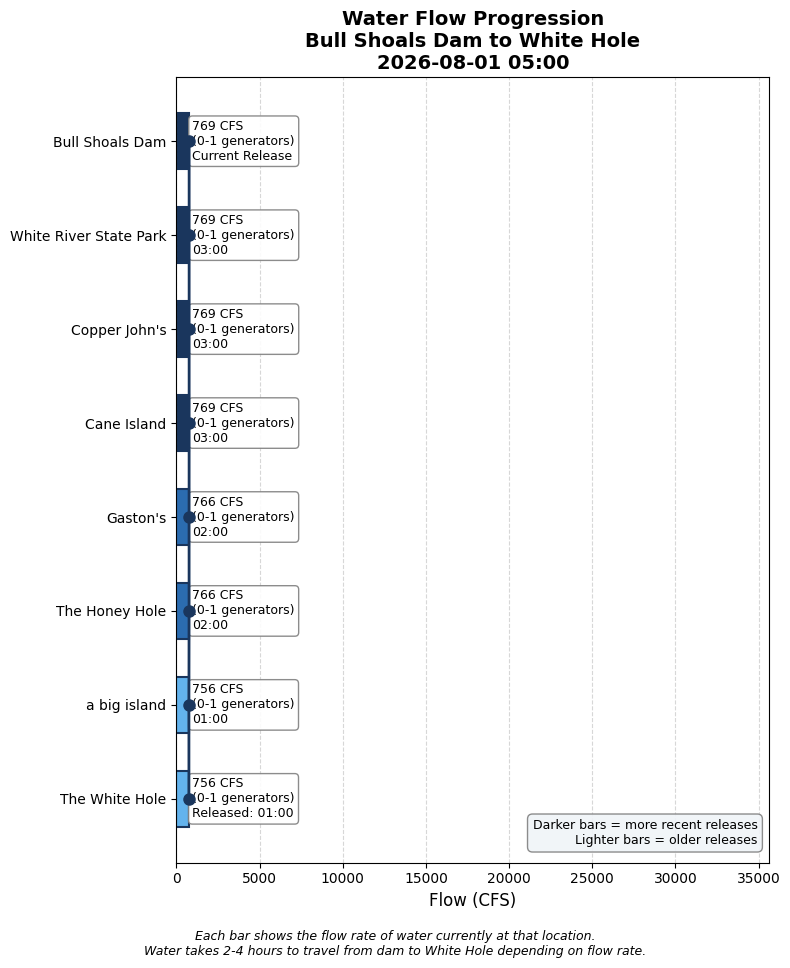
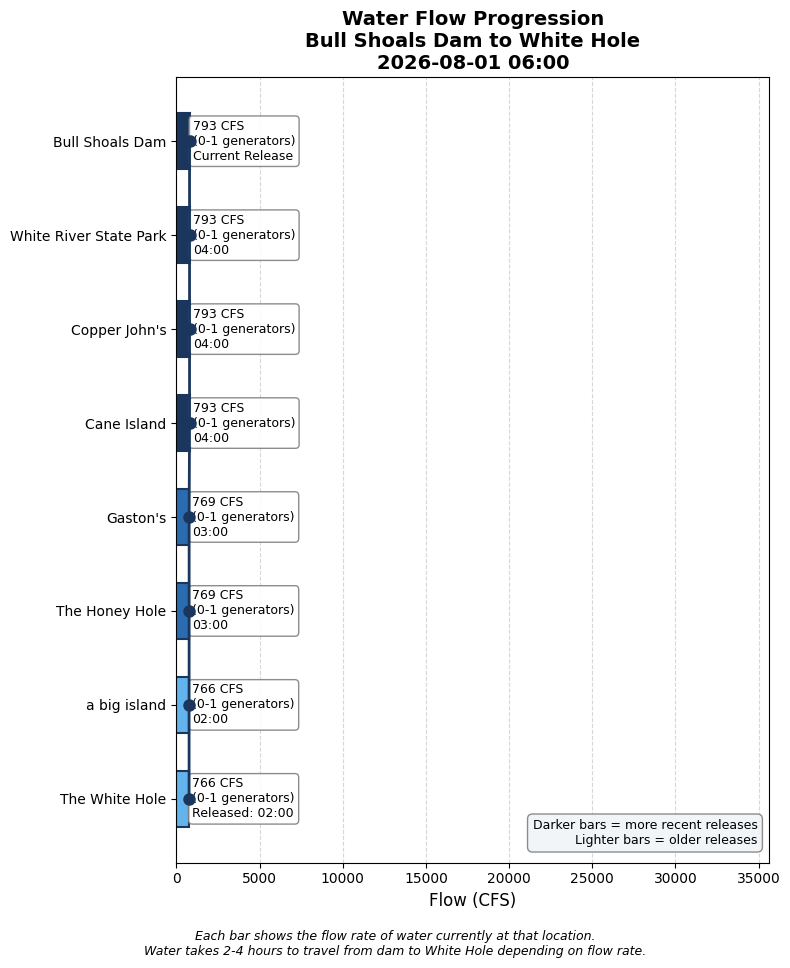
Update water conditions 2026-08-01 06:00

diff --git a/white_hole_conditions.html b/white_hole_conditions.html
@@ -3,7 +3,7 @@
 <head>
     <meta charset="UTF-8">
     <meta name="viewport" content="width=device-width, initial-scale=1.0">
-    <title>White Hole Conditions - 2026-08-01 05:00</title>
+    <title>White Hole Conditions - 2026-08-01 06:00</title>
     <style>
         body {
             font-family: -apple-system, BlinkMacSystemFont, 'Segoe UI', Roboto, sans-serif;
@@ -148,7 +148,7 @@
 </head>
 <body>
     <h1>White Hole Current Conditions</h1>
-    <p class="subtitle">Saturday, August 01, 2026 at 05:00 AM</p>
+    <p class="subtitle">Saturday, August 01, 2026 at 06:00 AM</p>
 
     <!-- HEADLINE BANNER -->
     <div class="headline-banner">
@@ -160,7 +160,7 @@
     <!-- CURRENT CONDITIONS -->
     <div class="current-conditions">
         <h3>Current Conditions at White Hole</h3>
-        <div class="flow-display">756 CFS</div>
+        <div class="flow-display">766 CFS</div>
         <div class="generator-display">Equivalent to 0-1 generators</div>
         <div class="condition-pills">
             <span class="pill wading">Excellent Wading</span>
@@ -189,6 +189,14 @@
                 <tr><td colspan="3" style="padding: 8px 10px; font-size: 0.8em; font-weight: bold; color: #6b46c1; text-transform: uppercase; letter-spacing: 0.05em; background-color: #f3e8ff;">Scheduled (SWPA forecast)</td></tr>
                 
                     <tr style="background-color: #faf5ff; ">
+                        <td style="padding: 10px; font-weight: bold;">9 AM</td>
+                        <td style="padding: 10px;">723 CFS<br><small style="color: #666;">(0-1 generators: 473 generation + 250 min flow)</small></td>
+                        <td style="padding: 10px;">~12:44 PM
+                            <span style="display: inline-block; margin-left: 6px; padding: 2px 8px; border-radius: 12px; font-size: 0.8em; background-color: #d1fae5; color: #065f46;">Excellent Wading</span>
+                        </td>
+                    </tr>
+                
+                    <tr style="background-color: #faf5ff; ">
                         <td style="padding: 10px; font-weight: bold;">8 AM</td>
                         <td style="padding: 10px;">723 CFS<br><small style="color: #666;">(0-1 generators: 473 generation + 250 min flow)</small></td>
                         <td style="padding: 10px;">~11:44 AM
@@ -212,39 +220,31 @@
                         </td>
                     </tr>
                 
-                    <tr style="background-color: #faf5ff; ">
-                        <td style="padding: 10px; font-weight: bold;">5 AM</td>
-                        <td style="padding: 10px;">723 CFS<br><small style="color: #666;">(0-1 generators: 473 generation + 250 min flow)</small></td>
-                        <td style="padding: 10px;">~8:44 AM
-                            <span style="display: inline-block; margin-left: 6px; padding: 2px 8px; border-radius: 12px; font-size: 0.8em; background-color: #d1fae5; color: #065f46;">Excellent Wading</span>
-                        </td>
-                    </tr>
-                
             
                     
                 <tr><td colspan="3" style="padding: 8px 10px; font-size: 0.8em; font-weight: bold; color: #2b6cb0; text-transform: uppercase; letter-spacing: 0.05em; background-color: #ebf8ff;">Actual (dam readings)</td></tr>
                 
                     <tr style="background-color: #ebf8ff;">
-                        <td style="padding: 10px; font-weight: bold;">3:00 AM</td>
-                        <td style="padding: 10px;">769 CFS<br><small style="color: #666;">(0-1 generators)</small></td>
-                        <td style="padding: 10px;"><span style="color: #2b6cb0;">→ Arrives ~6:44 AM (in 103 min)</span></td>
+                        <td style="padding: 10px; font-weight: bold;">4:00 AM</td>
+                        <td style="padding: 10px;">793 CFS<br><small style="color: #666;">(0-1 generators)</small></td>
+                        <td style="padding: 10px;"><span style="color: #2b6cb0;">→ Arrives ~7:44 AM (in 103 min)</span></td>
                     </tr>
                 
                     <tr style="background-color: #ebf8ff;">
-                        <td style="padding: 10px; font-weight: bold;">2:00 AM</td>
-                        <td style="padding: 10px;">766 CFS<br><small style="color: #666;">(0-1 generators)</small></td>
-                        <td style="padding: 10px;"><span style="color: #2b6cb0;">→ Arrives ~5:44 AM (in 43 min)</span></td>
+                        <td style="padding: 10px; font-weight: bold;">3:00 AM</td>
+                        <td style="padding: 10px;">769 CFS<br><small style="color: #666;">(0-1 generators)</small></td>
+                        <td style="padding: 10px;"><span style="color: #2b6cb0;">→ Arrives ~6:44 AM (in 43 min)</span></td>
                     </tr>
                 
                     <tr style="background-color: #e6fffa;">
-                        <td style="padding: 10px; font-weight: bold;">1:00 AM</td>
-                        <td style="padding: 10px;">756 CFS<br><small style="color: #666;">(0-1 generators)</small></td>
+                        <td style="padding: 10px; font-weight: bold;">2:00 AM</td>
+                        <td style="padding: 10px;">766 CFS<br><small style="color: #666;">(0-1 generators)</small></td>
                         <td style="padding: 10px;"><span style="color: #319795; font-weight: bold;">← AT WHITE HOLE NOW</span></td>
                     </tr>
                 
                     <tr style="">
-                        <td style="padding: 10px; font-weight: bold;">9:00 PM</td>
-                        <td style="padding: 10px;">817 CFS<br><small style="color: #666;">(0-1 generators)</small></td>
+                        <td style="padding: 10px; font-weight: bold;">10:00 PM</td>
+                        <td style="padding: 10px;">746 CFS<br><small style="color: #666;">(0-1 generators)</small></td>
                         <td style="padding: 10px;"><span style="color: #718096;">passed</span></td>
                     </tr>
                 
@@ -274,9 +274,9 @@
         </summary>
         <div style="padding: 15px;">
             <ul>
-                <li>Latest dam reading: 769 CFS at 2026-08-01 03:00</li>
+                <li>Latest dam reading: 793 CFS at 2026-08-01 04:00</li>
                 <li>Travel time to White Hole: 3.7 hours at current flow</li>
-                <li>White Hole conditions based on dam reading from: 2026-08-01 01:00</li>
+                <li>White Hole conditions based on dam reading from: 2026-08-01 02:00</li>
             </ul>
         </div>
     </details>
@@ -298,6 +298,13 @@
                     </thead>
                     <tbody>
                         
+                <tr style="border-bottom: 1px solid #eee;">
+                    <td style="padding: 8px;">2026-08-01 04:00</td>
+                    <td style="padding: 8px; text-align: right;">793</td>
+                    <td style="padding: 8px; text-align: right;">0.2</td>
+                    <td style="padding: 8px; text-align: right;">3.7</td>
+                </tr>
+                
                 <tr style="border-bottom: 1px solid #eee;">
                     <td style="padding: 8px;">2026-08-01 03:00</td>
                     <td style="padding: 8px; text-align: right;">769</td>
@@ -354,13 +361,6 @@
                     <td style="padding: 8px; text-align: right;">2.5</td>
                 </tr>
                 
-                <tr style="border-bottom: 1px solid #eee;">
-                    <td style="padding: 8px;">2026-07-31 18:00</td>
-                    <td style="padding: 8px; text-align: right;">16370</td>
-                    <td style="padding: 8px; text-align: right;">5.0</td>
-                    <td style="padding: 8px; text-align: right;">2.2</td>
-                </tr>
-                
                     </tbody>
                 </table>
             </div>
@@ -368,7 +368,7 @@
         
 
     <div class="timestamp">
-        Data retrieved and processed on 2026-08-01 05:00:14
+        Data retrieved and processed on 2026-08-01 06:00:09
     </div>
 </body>
 </html>
